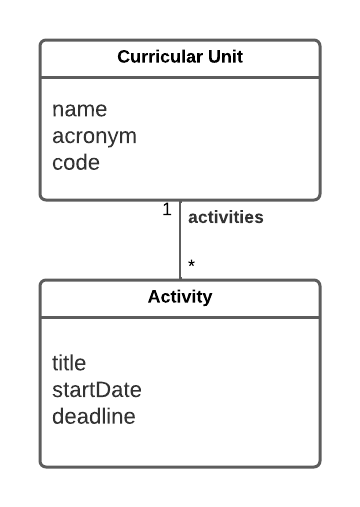
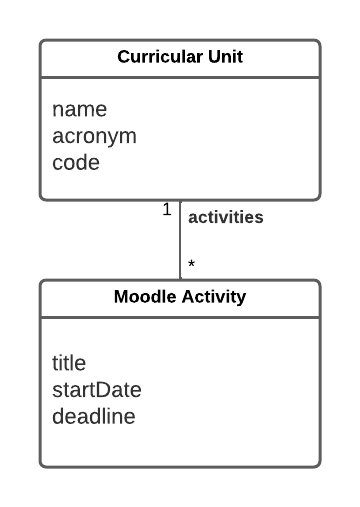
Undo changes made to docs/images

Changed region(s): [[0.3056, 0.5621, 0.7028, 0.6213]]

diff --git a/docs/requirements.md b/docs/requirements.md
@@ -1,0 +1,51 @@
+# Requirements
+
+## Use case model
+
+> TODO: Update
+![](../images/UseCase.png)
+
+|||
+| --- | --- |
+| *Name* | See UniCalendar |
+| *Actor* |  UP Member | 
+| *Description* | The UP member checks a calendar with upcoming Moodle activities through a dashboard on the main page. When the dashboard is clicked, a new page is brought up in which the user will have the possibility of filtering activities by course or exporting the calendar to multiple calendar apps. |
+| *Preconditions* | - The UP member must have a UP account.<br>- The UP member must be registered to courses. |
+| *Postconditions* | - [Optional] When exporting, the UP member gets the calendar as an ICS file. |
+| *Normal flow* | 1. The UP member starts the UNI app.<br> 2. The UP member is presented with a dashboard on the main page showing upcoming moodle activities.<br> 3. The UP member clicks the dashboard to expand it.<br> 4. If wanted, the UP member may filter the calendar by course.<br> 5. If wanted, the UP member can export the calendar to other extern app through an ICS file. |
+| *Alternative flows and exceptions* | 1. [No activities] If in step 2 of the normal flow there aren't any exams or any other activity the dashboard displays a simple message stating the case.<br>2. Alternatively, in step 3 the UP member may expand the lateral panel of the app and click the "Moodle's Activities" option.|
+
+|||
+|-|-|
+| *Name* | View Dashboard in Home Page |
+| *Actor* | UP Member |
+| *Description* | TODO |
+| *Preconditions* | TODO |
+| *Postconditions* | TODO |
+| *Normal flow* | TODO |
+| *Alternative flows and exceptions* | TODO |
+
+|||
+|-|-|
+| *Name* | Filter Activities by Course |
+| *Actor* | UP Member |
+| *Description* | The UP member |
+| *Preconditions* | TODO |
+| *Postconditions* | TODO |
+| *Normal flow* | TODO |
+| *Alternative flows and exceptions* | TODO |
+
+### User stories
+ - [As an UP member, I want to see a Moodle activity calendar dashboard on the homescreen, so that I can keep up with their deadlines.](https://github.com/LEIC-ES-2021-22/3LEIC03T3/issues/1)
+ - [As an UP member, I want to see a Moodle activity calendar page, so that I can keep up with their deadlines and have more functionalities.](https://github.com/LEIC-ES-2021-22/3LEIC03T3/issues/2)
+ - [As an UP member, I want to be able to filter the calendar for ongoing and future activities by their course, so that I can better keep track of the deadlines.](https://github.com/LEIC-ES-2021-22/3LEIC03T3/issues/3)
+ - [As an UP member, I want to be able to click on the homescreen calendar dashboard, so that I can go to the corresponding page.](https://github.com/LEIC-ES-2021-22/3LEIC03T3/issues/4)
+ - [As an UP member, I want to be able to export the activities calendar with the current filters applied to an external calendar application, so that I can easily synchronize with my everyday use calendar and manage my time more efficiently.](https://github.com/LEIC-ES-2021-22/3LEIC03T3/issues/5)
+ - [As an UP member, I want to be able to click on an “Moodle’s Activities” option on the application sidebar, so that I can go to the corresponding page.](https://github.com/LEIC-ES-2021-22/3LEIC03T3/issues/6)
+
+### Domain model
+
+ <p align="center" justify="center">
+  <img src="https://github.com/LEIC-ES-2021-22/3LEIC03T3/blob/main/images/DomainModeling.png"/>
+</p>
+pt

diff --git a/docs/ArchitectureAndDesign.md b/docs/ArchitectureAndDesign.md
@@ -1,34 +1,34 @@
 ## Architecture and Design
 
-The purpose of this section is to describe our application’s architecture. To keep our feature simple and manageable we plan to implement it using the MVC design pattern by dividing it into the following modules: calendar logic, calendar UI (subdivided into a dashboard UI and a page UI), a module responsible for fetching data from the google sheet and a parser to transform the fetched data into Models to be used by the controller.
+The purpose of this section is to describe our application’s architecture. To keep our feature simple and manageable we plan to implement it using the MVC design pattern by dividing it into the following modules: calendar logic, calendar UI (subdivided into a dashboard UI and a page UI), a module responsible for fetching data from the UP member Moodle’s page and a parser to transform the fetched data into Models to be used by the controller.
 
 ## Logical Architecture
 
-![Logical Architecture](../images/LogicalArchitecture.png)
+![Logical Architecture](https://user-images.githubusercontent.com/80169207/161722134-23d6d35e-ea0a-4e59-87e7-34f09911cdca.png)
 
 - Calendar UI - Display calendar in multiple formats.
   - Dashboard UI - Display dashboard calendar.
   - Page UI - Display page calendar.
 - Calendar Logic - Command the display of the Model given a set of parameters (e.g. filters, ongoing, past activities, etc…).
-- Data Parser - Parse raw data into concrete Dart Models.
-- Networking - Obtain data from the backend google sheet.
+- Moodle Data Parser - Parse raw moodle data into concrete Dart Models.
+- Networking - Obtain data from the UP member’s Moodle page.
 
 # Physical Architecture
 
-![Physical Architecture](../images/PhysicalArchitecture.png)
+![Physical Architecture](https://user-images.githubusercontent.com/80169207/161722349-8710c6f4-1469-4d50-bc58-bd53c87f2656.png)
 
 - UPMember Smartphone - The UP member’s smartphone where the Uni4All application will be running on.
   - Uni4All (Flutter) - Extended mobile application developed by NIAEFEUP (with Flutter) with our feature.
-- Google Sheet Server
-  - Web Server - Required to fetch the necessary data for our feature, accessed using sheet's public API.
+- Moodle Server
+  - Web Server - Required to fetch the necessary data for our feature.
 
 # Vertical Prototype
 
-For the vertical prototype we implemented a new view with boilerplate content that will become the Activities pages ([User story #2](https://github.com/LEIC-ES-2021-22/3LEIC03T3/issues/2)), this page is accessible through the application's sidebar.
+For the vertical prototype we implemented a new view with boilerplate content that will become the Moodle Activities pages ([User story #2](https://github.com/LEIC-ES-2021-22/3LEIC03T3/issues/2)), this page is accessible through the application's sidebar.
 
 The prototype is running on **Flutter 2.0.1**, the version used by the official [UNI app](https://github.com/NIAEFEUP/project-schrodinger).
 
-![Sidepanel](../images/MockupSidepanel.png)
+![Sidebar](https://user-images.githubusercontent.com/79420500/162536824-60d1d1c1-0dbf-4f33-b6cf-0090425904fd.jpg)
 
-![Activities Page](../images/MockupActivities.png)
+![Moodle Activities Page](https://user-images.githubusercontent.com/79420500/162536838-872004d7-8e9c-4cbf-a021-f408ff8614eb.jpg)
 
